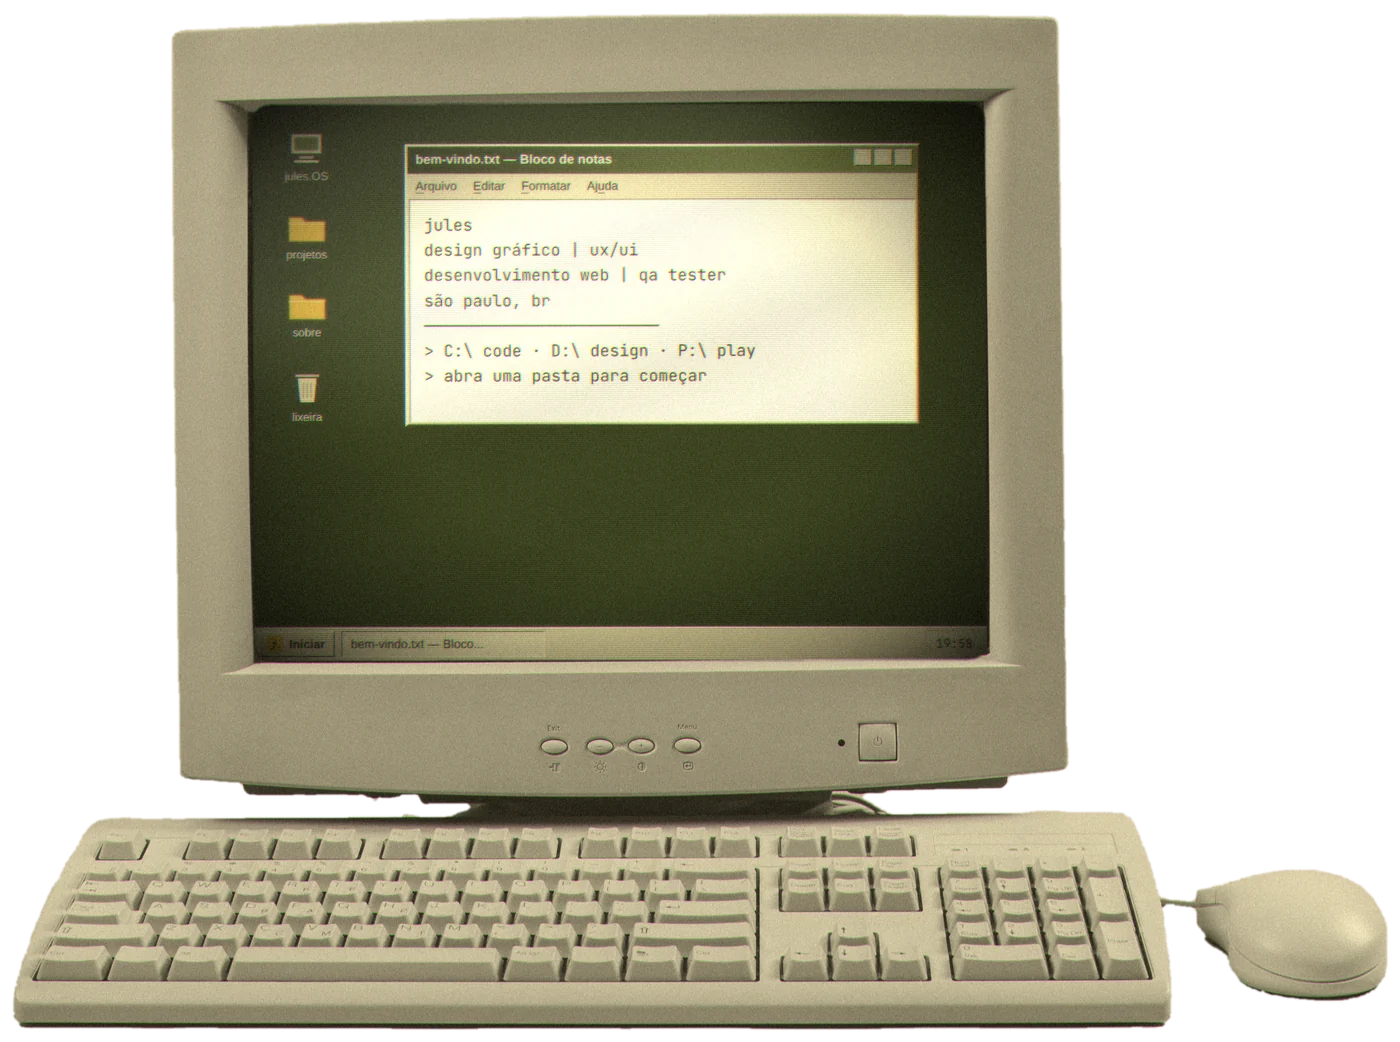
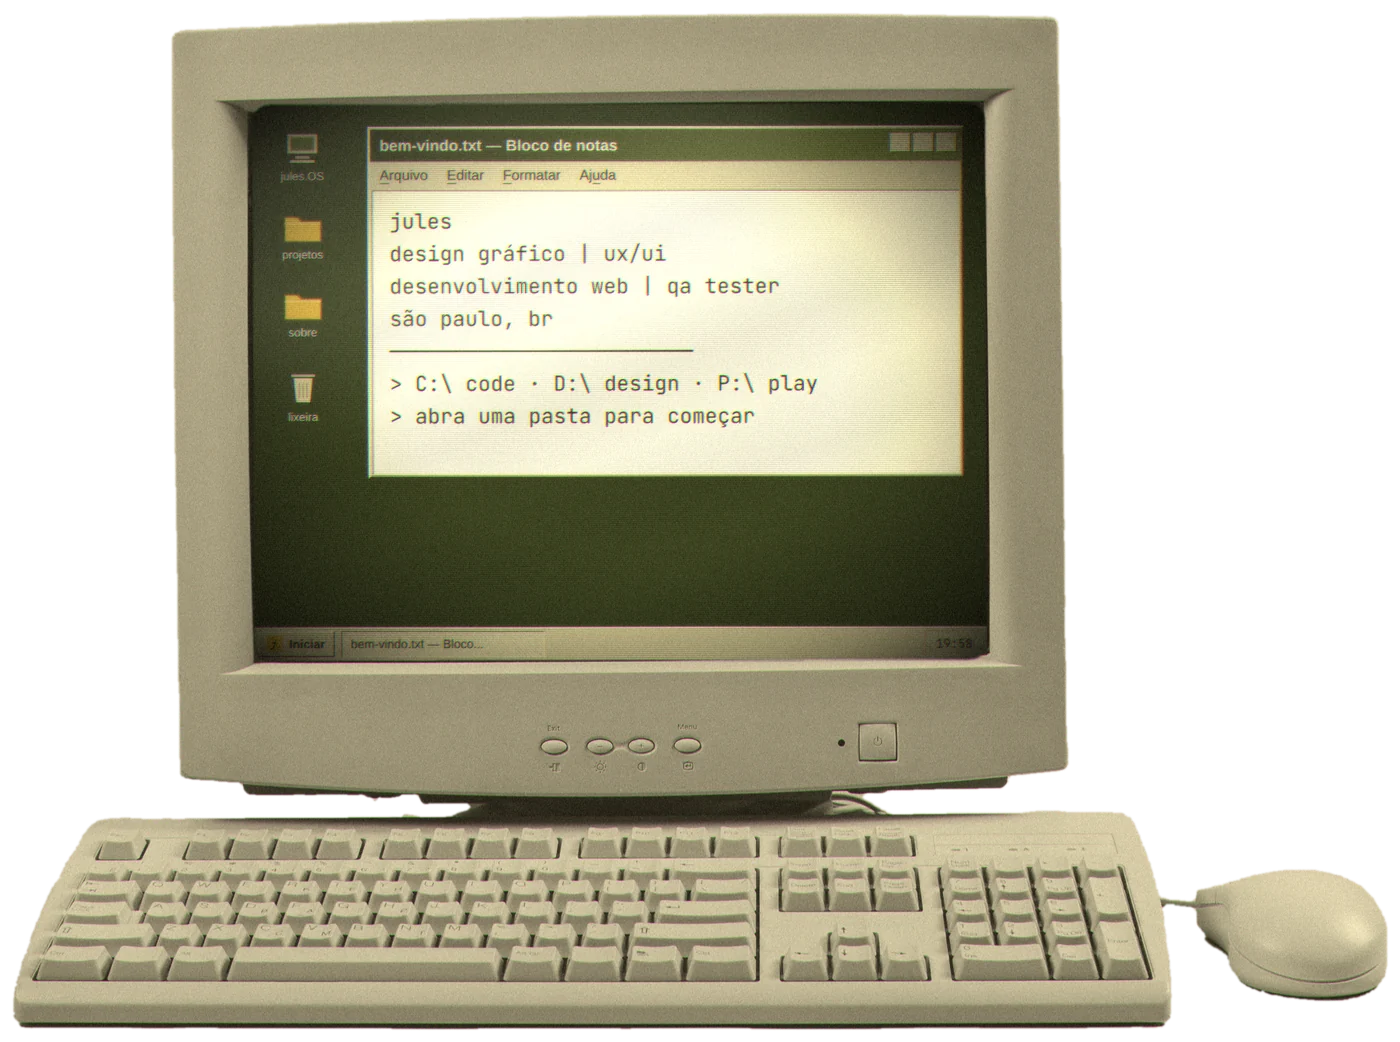
site-deploy

Changed region(s): [[0.1843, 0.1228, 0.7064, 0.4607]]

diff --git a/js/contato.js b/js/contato.js
@@ -81,7 +81,7 @@
       if (st.op !== null) {
         var c = CANAIS[OPCOES[st.op].canal], m = textoMensagem();
         // projetos (e-mail) com WhatsApp configurado: mostra as duas opções
-        var temZap = OPCOES[st.op].canal === 'email' && !!window.JULES_WHATSAPP;
+        var temZap = OPCOES[st.op].canal === 'email';
         $('.ct-icone').textContent = temZap ? '@ ✆' : c.icone;
         $('.ct-canal-nome').textContent = temZap ? c[l].nomeZap : c[l].nome;
         $('.ct-porque').textContent = temZap ? c[l].porqueZap : c[l].porque;
@@ -90,7 +90,7 @@
         if (temZap) {
           zap.textContent = c[l].zap;
           // no WhatsApp vai só a mensagem (sem a linha de "Assunto")
-          zap.href = 'https://wa.me/' + window.JULES_WHATSAPP + '?text=' + encodeURIComponent(m.corpo);
+          zap.href = 'https://wa.me/' + (window.JULES_WHATSAPP || '') + '?text=' + encodeURIComponent(m.corpo);
         }
         $('.ct-msg').textContent = m.completa;
         var ir = $('.ct-ir');
@@ -151,6 +151,22 @@
       }
       if (navigator.clipboard && window.isSecureContext) navigator.clipboard.writeText(texto).then(ok, jeitoAntigo);
       else jeitoAntigo();
+    });
+    // endereço de e-mail no rodapé: copia o endereço e abre o Gmail já com ele no "Para"
+    var linkEmail = document.querySelector('.ct-email');
+    if (linkEmail) linkEmail.addEventListener('click', function () {
+      function avisa() {
+        var antes = linkEmail.textContent;
+        linkEmail.textContent = L() === 'en' ? 'COPIED! ↗' : 'COPIADO! ↗';
+        setTimeout(function () { linkEmail.textContent = antes; }, 1800);
+      }
+      try {
+        if (navigator.clipboard && window.isSecureContext) navigator.clipboard.writeText(EMAIL).then(avisa, function () {});
+        else {
+          var c = document.createElement('textarea'); c.value = EMAIL; c.style.position = 'fixed'; c.style.opacity = '0';
+          document.body.appendChild(c); c.select(); if (document.execCommand('copy')) avisa(); document.body.removeChild(c);
+        }
+      } catch (e) {}
     });
     document.addEventListener('idioma', function () { desenhar(false); });
     desenhar(false);

diff --git a/sobre.html b/sobre.html
@@ -167,7 +167,7 @@
 <h2 id="contato-titulo" class="titulo" data-en="<span class=&quot;bl&quot; style=&quot;--b: 1.4px&quot;>Let’s <span class=&quot;verde&quot;>talk</span><span class=&quot;ponto&quot;>?</span></span>"><span class="bl" style="--b: 1.4px">Bora <span class="verde">conversar</span><span class="ponto">?</span></span></h2>
 </div>
 <div class="contato-acao">
-<a class="ir-contato" href="contato.html" data-en="CONTACT ↗">CONTATO ↗</a>
+<a class="ir-contato" href="contato.html" data-en="CONTACT">CONTATO</a>
 <p class="me-chama mao" aria-hidden="true"><span data-en="HIT ME UP!">ME CHAMA!</span><svg aria-hidden="true" width="190" height="20" viewBox="0 0 190 20"><path d="M22.8 14.6 C35.5 15 45 14.7 51.3 13.7 C57.6 12.7 64 12 70.3 11.7 C76.6 11.3 83 11.2 89.3 11.5 C95.6 11.8 102.9 12.4 109.2 13.2 C115.5 14 121 14.5 127.3 15 C133.6 15.5 140 15 146.3 13.7 C152.6 12.4 159 11.4 165.3 10.9 L174.8 10" fill="none" stroke="#EDEBDD" stroke-width="1.7600000000000002" stroke-linecap="round" stroke-linejoin="round"></path></svg></p>
 </div>
 </div>
@@ -175,7 +175,7 @@
 <a href="https://www.linkedin.com/in/julliaht/" target="_blank" rel="noopener">LINKEDIN ↗</a>
 <a href="https://github.com/jullllllia" target="_blank" rel="noopener">GITHUB ↗</a>
 <a href="https://discord.gg/6fMatUvej8" target="_blank" rel="noopener">DISCORD ↗</a>
-<a data-whatsapp hidden target="_blank" rel="noopener">WHATSAPP ↗</a>
+<a data-whatsapp href="https://wa.me/" target="_blank" rel="noopener">WHATSAPP ↗</a>
 <a href="https://www.instagram.com/julliaht/" target="_blank" rel="noopener">INSTAGRAM ↗</a>
 </nav>
 </footer>

diff --git a/index.html b/index.html
@@ -172,13 +172,13 @@ catch (e) { document.documentElement.classList.add('ab-mostrar'); }
 <div style="display: flex; flex-direction: column; gap: 14px">
 <span class="rotulo">[ 04 ]&nbsp;&nbsp;<span data-en="CONTACT">CONTATO</span></span>
 <h2 id="contato-titulo" class="titulo" data-en="<span class=&quot;bl&quot; style=&quot;--b: 1.7px&quot;>Let’s</span><br><span class=&quot;bl verde&quot; style=&quot;--b: 1.7px&quot;>talk<span class=&quot;ponto&quot;>?</span></span>"><span class="bl" style="--b: 1.7px">Bora</span><br><span class="bl verde" style="--b: 1.7px">conversar<span class="ponto">?</span></span></h2>
-<a class="ir-contato" href="contato.html" data-en="CONTACT ↗">CONTATO ↗</a>
+<a class="ir-contato" href="contato.html" data-en="CONTACT">CONTATO</a>
 </div>
 <nav class="redes" aria-label="Redes" data-en-label="Social">
 <a href="https://www.linkedin.com/in/julliaht/" target="_blank" rel="noopener">LINKEDIN ↗</a>
 <a href="https://github.com/jullllllia" target="_blank" rel="noopener">GITHUB ↗</a>
 <a href="https://discord.gg/6fMatUvej8" target="_blank" rel="noopener">DISCORD ↗</a>
-<a data-whatsapp hidden target="_blank" rel="noopener">WHATSAPP ↗</a>
+<a data-whatsapp href="https://wa.me/" target="_blank" rel="noopener">WHATSAPP ↗</a>
 <a href="https://www.instagram.com/julliaht/" target="_blank" rel="noopener">INSTAGRAM ↗</a>
 </nav>
 </div>

diff --git a/contato.html b/contato.html
@@ -119,11 +119,11 @@
 
 <section class="ct-direto" aria-label="Outros contatos" data-en-label="Other contacts">
 <span class="rotulo" data-en="OR, IF YOU PREFER, DIRECTLY:">OU, SE PREFERIR, DIRETO:</span>
-<div class="redes"><span class="ct-email">OI@CREATIVEJUL.ES</span>
+<div class="redes"><a class="ct-email" href="https://mail.google.com/mail/?view=cm&amp;fs=1&amp;to=oi@creativejul.es" target="_blank" rel="noopener" aria-label="Escrever para oi@creativejul.es (o endereço também é copiado)" data-en-label="Write to oi@creativejul.es (the address is also copied)">OI@CREATIVEJUL.ES ↗</a>
 <a href="https://www.linkedin.com/in/julliaht/" target="_blank" rel="noopener">LINKEDIN ↗</a>
 <a href="https://github.com/jullllllia" target="_blank" rel="noopener">GITHUB ↗</a>
 <a href="https://discord.gg/6fMatUvej8" target="_blank" rel="noopener">DISCORD ↗</a>
-<a data-whatsapp hidden target="_blank" rel="noopener">WHATSAPP ↗</a>
+<a data-whatsapp href="https://wa.me/" target="_blank" rel="noopener">WHATSAPP ↗</a>
 <a href="https://www.instagram.com/julliaht/" target="_blank" rel="noopener">INSTAGRAM ↗</a>
 </div>
 </section>

diff --git a/js/whatsapp.js b/js/whatsapp.js
@@ -3,15 +3,14 @@
    ---------------------------------------------------------------------
    Como preencher: código do país (55) + DDD + número, tudo junto,
    sem espaço, traço, parêntese ou "+".  Ex.: '5511912345678'
-   Enquanto estiver vazio (''), nada de WhatsApp aparece no site:
-   nem o link do rodapé, nem o botão no assistente de contato.
+   Enquanto estiver vazio (''), os botões aparecem, mas o link abre o
+   WhatsApp sem destinatário. Depois de preencher, abre direto a conversa.
    ===================================================================== */
 window.JULES_WHATSAPP = '';
 
 (function () {
   document.addEventListener('DOMContentLoaded', function () {
     var numero = window.JULES_WHATSAPP;
-    if (!numero) return;
     var texto = encodeURIComponent('Oi, jules! Vim pelo creativejul.es.');
     document.querySelectorAll('[data-whatsapp]').forEach(function (a) {
       a.href = 'https://wa.me/' + numero + '?text=' + texto;

diff --git a/css/abertura.css b/css/abertura.css
@@ -45,7 +45,12 @@
 @keyframes abAparece { to { opacity: 1; } }
 
 .ab-entrar { position: absolute; bottom: 44px; display: inline-flex; align-items: center; gap: 12px; min-height: 44px; padding: 0 20px; font: inherit; font-size: 12px; letter-spacing: 0.12em; color: var(--papel); background: transparent; border: 1px solid var(--musgo); cursor: pointer; }
-.ab-entrar:hover { border-color: var(--ouro); color: var(--ouro); }
+/* hover: o botão fica todo dourado */
+.ab-entrar { transition: background .15s, color .15s, border-color .15s; }
+.ab-entrar:hover { background: var(--ouro); border-color: var(--ouro); color: #0B0F07; }
+.ab-entrar:hover .ponto { color: #0B0F07; }
+/* o botão já recebe o foco ao abrir (para o Enter funcionar); sem contorno extra por isso */
+.ab-entrar:focus-visible { outline: none; }
 .ab-dom { position: absolute; right: 40px; bottom: 36px; font-size: 11px; letter-spacing: 0.1em; color: var(--broto); }
 
 @media (max-width: 700px) {

diff --git a/css/home.css b/css/home.css
@@ -27,7 +27,7 @@
 }
 @keyframes crtpisca { 0%{opacity:.55} 7%{opacity:.85} 9%{opacity:.4} 11%{opacity:.75} 38%{opacity:.6} 40%{opacity:.95} 42%{opacity:.6} 71%{opacity:.7} 73%{opacity:.35} 75%{opacity:.7} 100%{opacity:.55} }
 @keyframes crtvarre { from { background-position: 0 -120px, 0 0 } to { background-position: 0 430px, 0 0 } }
-.crt-cursor { position: absolute; left: 50.49%; top: 35.10%; width: 0.63%; height: 1.69%; background: #23271A; pointer-events: none; animation: crtcursor 1.1s ease-in-out infinite; }
+.crt-cursor { position: absolute; left: 54.45%; top: 38.62%; width: 0.83%; height: 2.21%; background: #23271A; pointer-events: none; animation: crtcursor 1.1s ease-in-out infinite; }
 @keyframes crtcursor { 0%, 45% { opacity: 0 } 55%, 100% { opacity: 1 } }
 
 /* ---------- [01] Três linguagens ---------- */

diff --git a/css/contato.css b/css/contato.css
@@ -49,7 +49,7 @@
 .ct-nav .b98 { min-width: 96px; }
 
 .ct-direto { display: flex; flex-wrap: wrap; justify-content: space-between; align-items: center; gap: 20px 40px; margin: 88px var(--margem) 0; padding-top: 32px; border-top: 1px solid var(--musgo); }
-.ct-email { user-select: all; }
+.ct-email { text-underline-offset: 6px; }
 .ct-fim { display: flex; flex-wrap: wrap; justify-content: space-between; gap: 12px; padding: 56px var(--margem) 40px; color: var(--musgo); }
 
 @media (max-width: 1100px) { .ct-nota { display: none; } }
